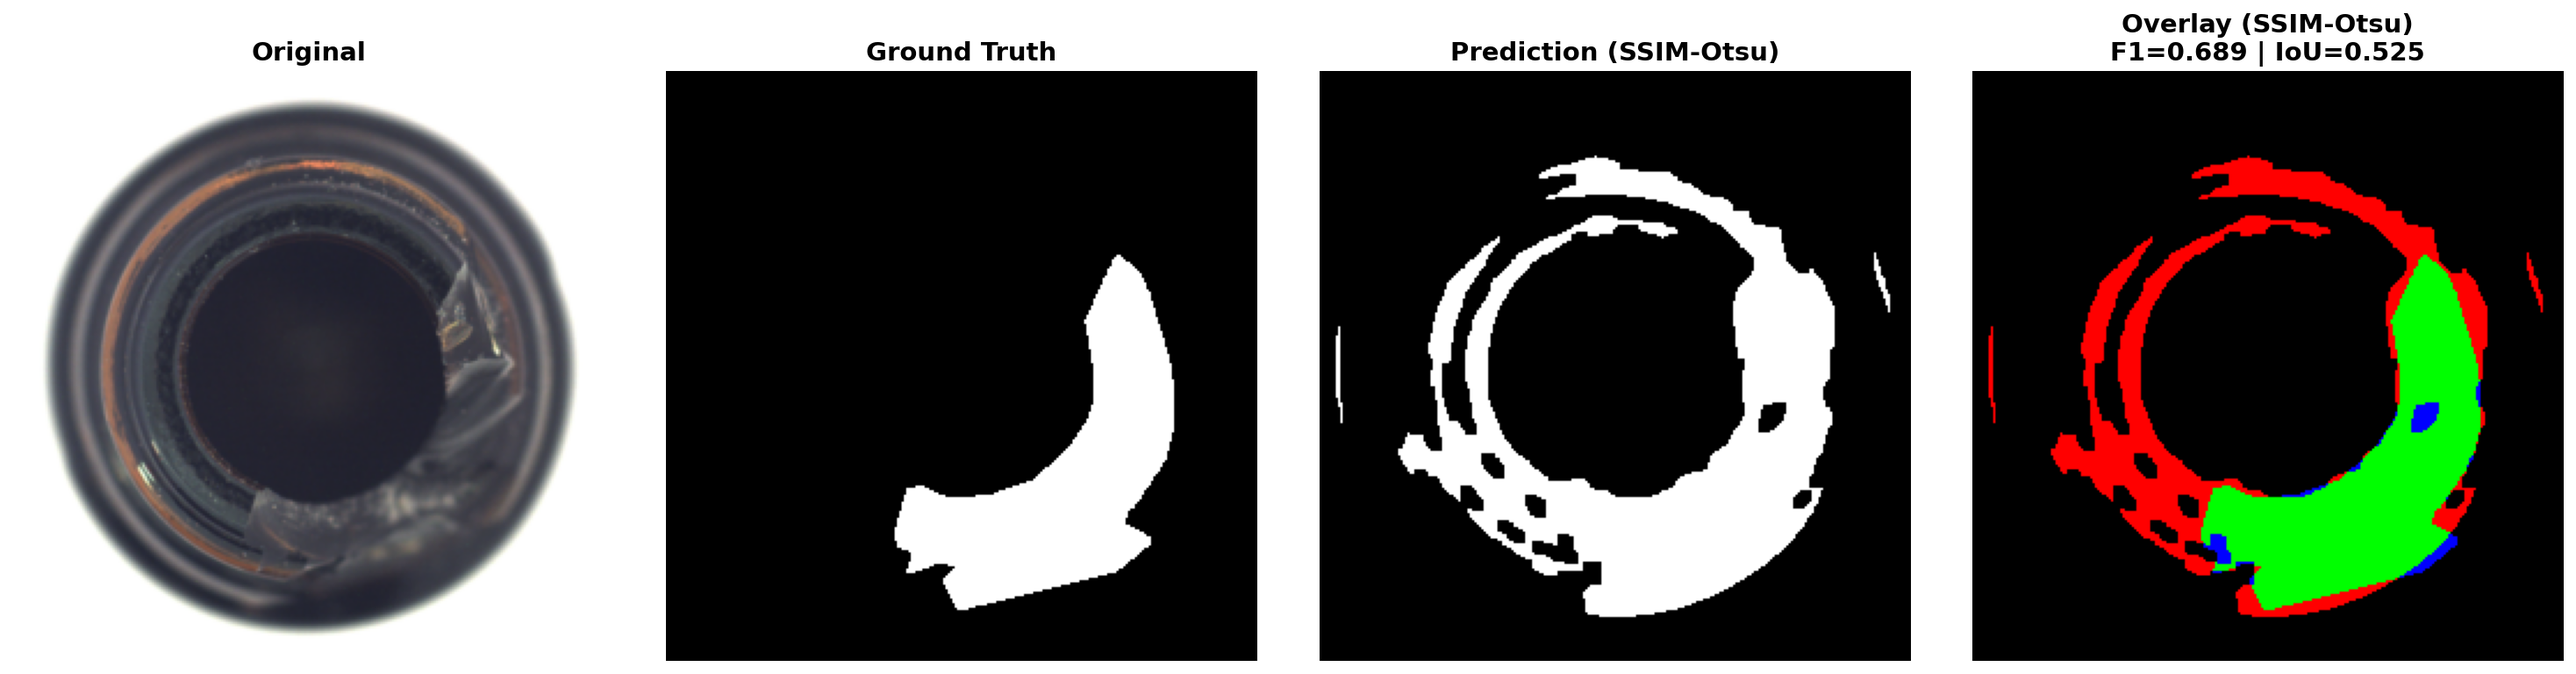
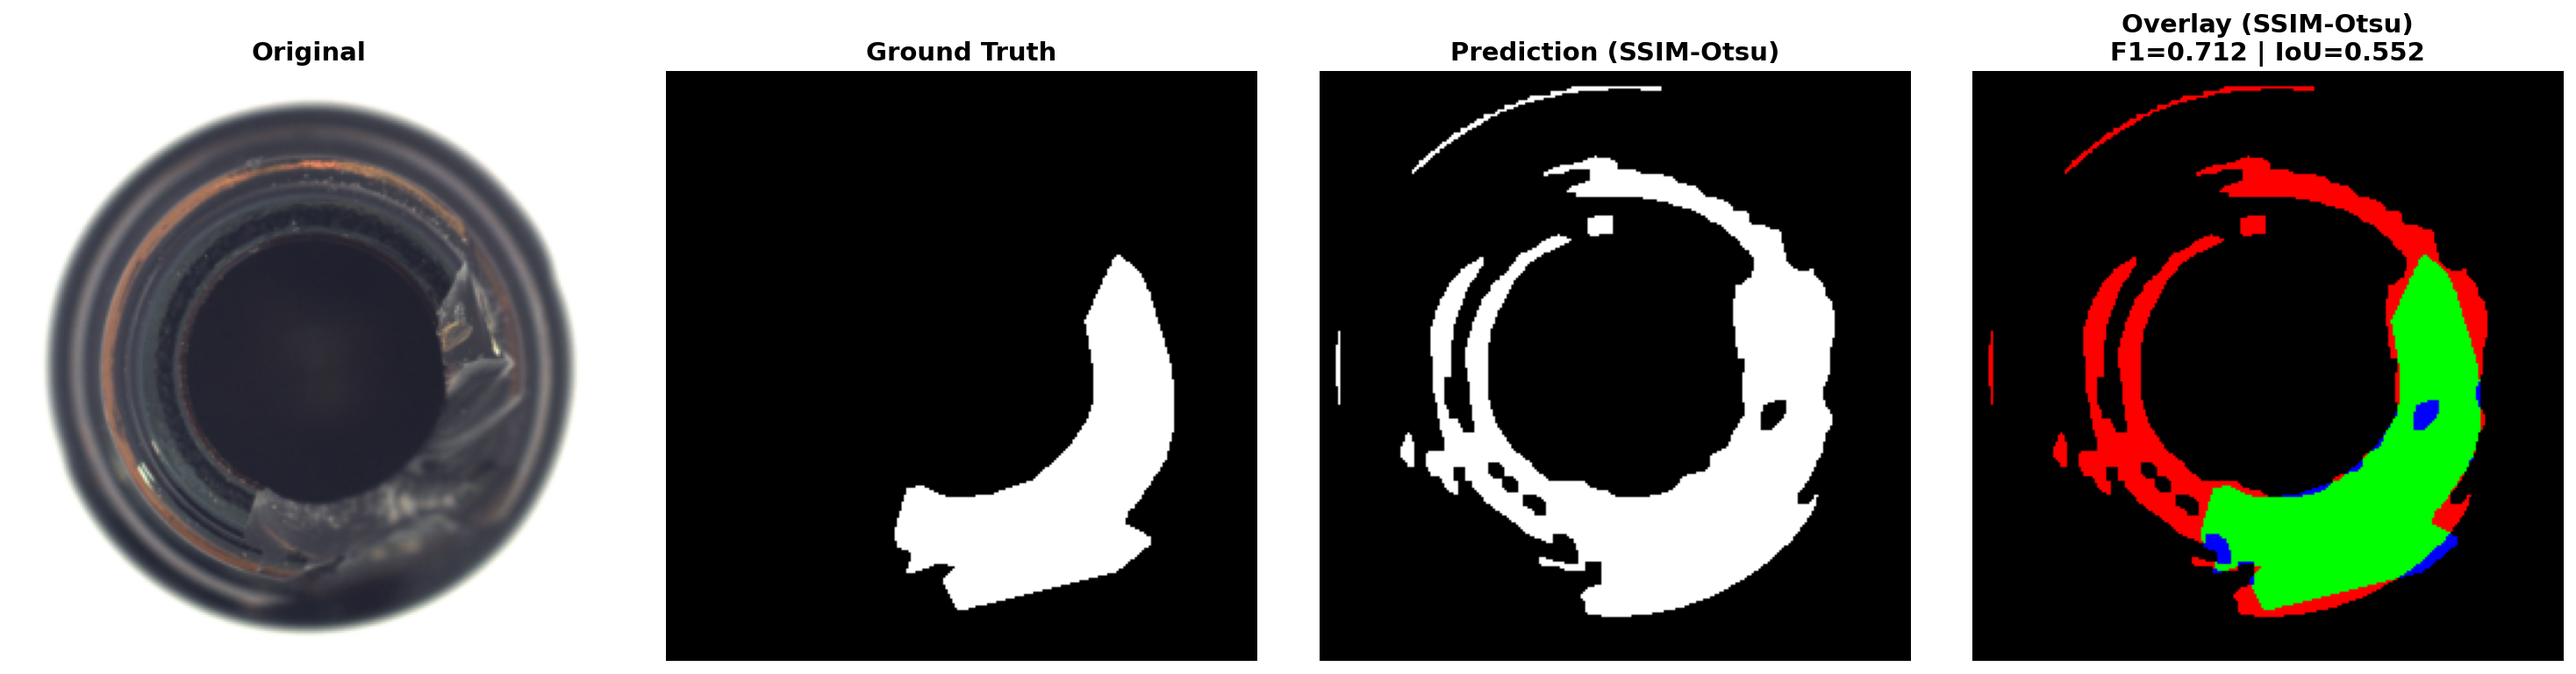
WIP: modifica architettura CAE

diff --git a/heatmap_anomaly_detection.py b/heatmap_anomaly_detection.py
@@ -1,5 +1,5 @@
 import torch
-from cnn_anomaly_detection import Autoencoder
+from cnn_anomaly_detection import CAE256_NoLinear
 from dataset_anomaly_detection import test_loader
 import matplotlib.pyplot as plt
 import numpy as np
@@ -14,7 +14,7 @@ os.makedirs(OUTPUT_DIR, exist_ok=True)
 device = torch.device("cuda" if torch.cuda.is_available() else "cpu")
 
 # Modello
-model = Autoencoder().to(device)
+model = CAE256_NoLinear().to(device)
 model.load_state_dict(torch.load(MODEL_PATH, map_location=device))
 model.eval()
 
